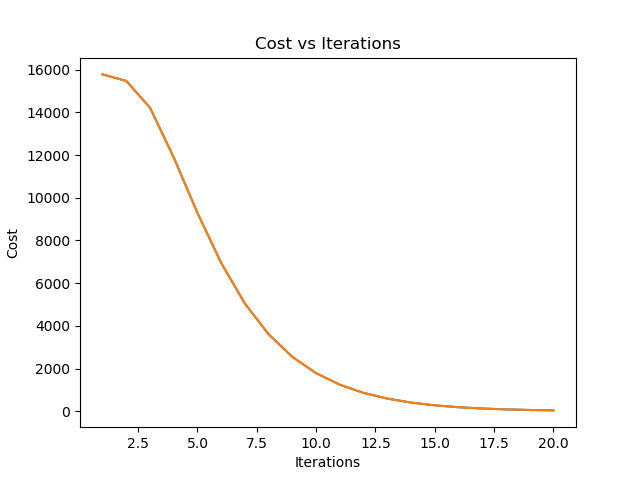
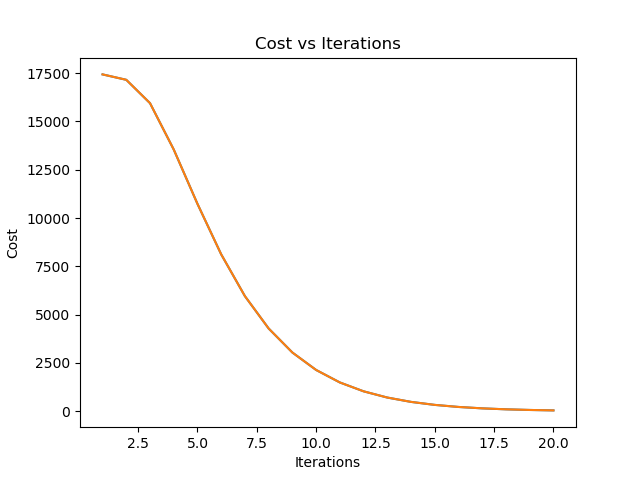
Done!

diff --git a/hw3/Question5.py b/hw3/Question5.py
@@ -6,7 +6,7 @@ from Question3 import *
 
 
 lam = .1
-iterations = 1000
+iterations = 200
 def load_data():
     mndata = MNIST()
     X_train, labels_train = map(np.array, mndata.load_training())
@@ -38,9 +38,12 @@ def calculate_cost(x,w,y,b):
 
 def predict(w,b,x):
     # print("-------",w.shape,x.shape)
-    return np.sign(np.exp(b+x@w))
+    # print(np.sign((b+x@w)))
+    # print((b+x@w).shape)
+    return np.sign((b+x@w))
 
 def compute_error(y_predict,y):
+    #print (y_predict,y)
     return np.sum(np.invert(np.equal(y_predict,y)))/y.shape[0]
 
 def gradient_descent(x,y,xt,yt,stochastic,batch = 1):
@@ -68,16 +71,19 @@ def gradient_descent(x,y,xt,yt,stochastic,batch = 1):
             x_rand = x[ids]
             y_rand = y[ids]
             mu = np.reciprocal(1+np.exp(-y_rand[0:batch]*(b+x_rand[0:batch]@w)))
-            delw = np.mean((1-mu).T*(-y_rand[0:batch].T*x_rand[0:batch].T),axis = 1).reshape(x.shape[1],1) + 2*(lam/iterations)*w
-            delb = np.mean((1-mu)*(-y_rand[0:batch]))
+            delw = np.mean((mu-1).T*(y_rand[0:batch].T*x_rand[0:batch].T),axis = 1).reshape(x.shape[1],1) + 2*(lam/iterations)*w
+            delb = np.mean((mu-1)*(y_rand[0:batch]))
             #print(delw.shape,delb.shape)
         if not stochastic:
-            mu = np.reciprocal(1+np.exp(-y*(b+x@w)))
-            delw = np.mean((1-mu).T*(-y.T*x.T),axis = 1).reshape(x.shape[1],1) + 2*lam*w
-            delb = np.mean((1-mu)*(-y))
-        w = w - .9*delw
+            mu = np.reciprocal(1+np.exp(np.multiply(-y,(b+x@w))))
+            # print(y.shape)
+            # exit()
+            delw = np.mean(np.multiply((mu-1).T,(np.multiply(y.T,x.T))),axis = 1).reshape(x.shape[1],1) + 2*lam*w
+            delb = np.mean(np.multiply((mu-1),(y)))
+            # print(mu)
+        w = w -.1*delw
         #print("##########:",w.shape)
-        b = b - .5*delb
+        b = b - .1*delb
         cost = np.asscalar(calculate_cost(x,w,y,b))
         costt = np.asscalar(calculate_cost(xt,w,yt,b))
         p = predict(w,b,x)
@@ -95,23 +101,60 @@ def gradient_descent(x,y,xt,yt,stochastic,batch = 1):
     print(len(errors))
     print(len(ws))
     print(type(np.arange(0,iterations+1).tolist()))
-    if stochastic:
+    if stochastic:            # print(mu)            # print(mu)
+        w = w - .01*delw
+        w = w - .01*delw
         plotter(np.arange(0,iterations+1).tolist(),[costs],title = "Cost_Iteration_Stochastic_"+str(batch), xlabel = "Iterations", ylabel = "Cost",flag = False)
         plotter(np.arange(0,iterations+1).tolist(),[costst],title = "Cost_Iteration_test_Stochastic_"+str(batch), xlabel = "Iterations", ylabel = "Cost",flag = False)
         plotter(np.arange(0,iterations+1).tolist(),[ws],title = "W_Iterations_Stochastic_"+str(batch), xlabel = "Iterations", ylabel = "W",flag = False)
         plotter(np.arange(0,iterations+1).tolist(),[bs],title = "b_Iterations_Stochastic_"+str(batch), xlabel = "Iterations", ylabel = "b",flag = False)
         plotter(np.arange(0,iterations+1).tolist(),[errors,errorst],title = "Missclassification Error_Stochastic_"+str(batch), xlabel = "Iterations", ylabel = "Error",flag = False)
     if not stochastic:
-        plotter(np.arange(0,iterations+1).tolist(),[costs],title = "Cost_Iteration", xlabel = "Iterations", ylabel = "Cost",flag = False)
-        plotter(np.arange(0,iterations+1).tolist(),[costst],title = "Cost_Iteration_test", xlabel = "Iterations", ylabel = "Cost",flag = False)
+        plotter(np.arange(0,iterations+1).tolist(),[costs, costst],title = "Cost_Iteration", xlabel = "Iterations", ylabel = "Cost",flag = False)
+        #plotter(np.arange(0,iterations+1).tolist(),[costst],title = "Cost_Iteration_test", xlabel = "Iterations", ylabel = "Cost",flag = False)
         plotter(np.arange(0,iterations+1).tolist(),[ws],title = "W_Iterations", xlabel = "Iterations", ylabel = "W",flag = False)
         plotter(np.arange(0,iterations+1).tolist(),[bs],title = "b_Iterations", xlabel = "Iterations", ylabel = "b",flag = False)
         plotter(np.arange(0,iterations+1).tolist(),[errors,errorst],title = "Missclassification Error", xlabel = "Iterations", ylabel = "Error",flag = False)
     return w,b
 
+def crossmult(z):
+    z = z.reshape(z.shape[0],1)
+    print((z@z.T))
+    return z@z.T
+
+def Newton_method(x,y):
+    w = np.zeros((x.shape[1],1))
+    b = 0
+    for j in range(2):
+        mu = np.reciprocal(1+np.exp(np.multiply(-y,(b+x@w))))
+        # print("--------",x.shape,y.shape,mu.shape,(np.multiply(y,x)).shape)
+        # print("@@@@@@@@@@@",(np.multiply(np.multiply(mu,(mu-1)),np.apply_along_axis(crossmult,1,np.multiply(y_train.reshape(y_train.shape[0],1),x_train)).reshape(x.shape[0],1))).shape)
+        delw = np.mean(np.multiply((mu-1).T,(np.multiply(y.T,x.T))),axis = 1).reshape(x.shape[1],1) + 2*lam*w
+        delb = np.mean(np.multiply((mu-1),(y)))
+        # print(((y[1]*x[1].reshape(x[1].shape[0],1))).shape)
+        deltemp = np.zeros((x.shape[1],x.shape[1]))
+        for i in tqdm(range(x.shape[0])):
+            deltemp += np.multiply(np.multiply(mu[i],(1-mu[i])),(y[i]*x[i].reshape(x[i].shape[0],1))@(y[i]*x[i].reshape(x[i].shape[0],1)).T)
+        print(deltemp.shape)
+        del2_w = (deltemp/x.shape[0]) + 2* lam* np.eye(x.shape[1])
+        #del2_w = np.mean(np.multiply(np.multiply(mu,(mu-1)),np.apply_along_axis(crossmult,1,np.multiply(y_train.reshape(y_train.shape[0],1),x_train)).reshape(x.shape[0],1))) + 2*lam
+        del2_b = np.mean(np.multiply(np.multiply(mu,(1-mu)),np.multiply(y,y)))
+        v_w = np.linalg.solve(del2_w,-delw)
+        v_b = (-delb)/del2_b
+        print(v_w.shape,v_b.shape)
+        w = w + .1 * v_w
+        b = b + .1 * v_b
+        p = predict(w,b,x)
+        error = compute_error(p,y)
+        print("Ye le penchow Error:", error)
 
 x_train, x_test, y_train, y_test = load_data()
 print(x_test.shape,y_test.shape)
 print(x_train.shape,y_train.shape)
-ecit()
-gradient_descent(x_train,y_train.reshape(y_train.shape[0],1),x_test,y_test.reshape(y_test.shape[0],1),True,1000)
+gradient_descent(x_train,y_train.reshape(y_train.shape[0],1),x_test,y_test.reshape(y_test.shape[0],1),False,1000)
+Newton_method(x_train,y_train.reshape(y_train.shape[0],1))
+exit()
+
+
+a = np.apply_along_axis(crossmult,1,np.multiply(y_train.reshape(y_train.shape[0],1),x_train))
+print(a.shape)

diff --git a/hw3/Question5_samin.py b/hw3/Question5_samin.py
@@ -1,0 +1,124 @@
+import numpy as np
+import matplotlib.pyplot as plt
+from mnist import MNIST
+from tqdm import tqdm
+
+def load_dataset():
+    mndata = MNIST()
+    mndata.gz = True
+    x_train, labels_train = map(np.array, mndata.load_training())
+    x_test, labels_test = map(np.array, mndata.load_testing())
+    x_train = x_train/255.0
+    x_test = x_test/255.0
+    return x_train, labels_train, x_test, labels_test
+
+
+X_train, label_train, X_test, label_test = load_dataset()
+
+label_train = label_train.reshape(label_train.shape[0])
+label_test = label_test.reshape(label_test.shape[0])
+
+print('X_train', X_train.shape, 'label_train', label_train.shape)
+
+
+index_train =np.where(np.logical_or(label_train==2, label_train==7))
+index_test = np.where(np.logical_or(label_test==2, label_test==7))
+
+
+label_train = label_train[index_train]
+label_test = label_test[index_test]
+X_train = X_train[index_train]
+X_test = X_test[index_test]
+
+# print(label_train[0:20])
+
+label_train = np.where(label_train==7, 1, -1)
+label_test = np.where(label_test==7, 1, -1)
+
+# print(label_train[0:20])
+
+print('label_train', label_train.shape, 'X_train', X_train.shape, 'label_test', label_test.shape, 'X_test', X_test.shape)
+
+mu = []
+def mu_func(z):
+
+    mu = 1.0 / (1.0 + np.exp(-z))
+    return mu
+
+
+lamda = 0.1
+W = np.zeros((X_train.shape[1], 1))
+b = 0
+
+
+def computation(X, Y, W, b):
+
+    # mu = np.reciprocal(1 + np.exp(-(Y*(b + X @ W))))
+    # print('mu', mu)
+    # print('etha_shape', etha.shape)
+    # logistic_loss = np.log(1/mu)
+    # print("_---------",Y.shape,X.shape,W.shape)
+    z = np.multiply(Y.reshape(X.shape[0], 1), (b + X @ W))
+    # print('z_value', z)
+    mu = mu_func(z)
+    # print('mu_value', mu.shape)
+    mu = np.reshape(mu, (mu.shape[0], 1))
+    # print('mu_shape', mu.shape)
+    J = np.mean(np.log(np.reciprocal(mu))) + lamda*(W.T @ W)
+    #print("^^^^^^^",(np.mean(-np.multiply((np.multiply(X, Y.reshape(Y.shape[0],1))), (1-mu)), axis=0)).shape,(2*lamda*W).shape)
+    grad_W = (np.mean(-np.multiply((np.multiply(X, Y.reshape(Y.shape[0],1))), (1-mu)), axis=0)).reshape(X.shape[1],1) + (2*lamda*W)
+    #print ("-----",grad_W.shape)
+
+    # print('grad_W_shape', grad_W.shape)
+    # grad_W = np.reshape(grad_W, )
+    # print('grad_W_shape', grad_W.shape)
+    grad_b = np.mean(-np.multiply(Y, (1-mu)))
+    # print('grad_b_shape', grad_b.shape)
+    # print('grad_b', grad_b.shape)
+    return J, grad_W, grad_b
+
+
+def optimization(X, Y, W, b, num_iteration, step_size):
+    J_list = []
+    W_list = []
+    for i in tqdm(range(num_iteration)):
+        J, grad_W, grad_b = computation(X, Y, W, b)
+        # print('cost', J)
+        W = W - step_size*grad_W
+        b = b - step_size*grad_b
+        J_list = np.append(J_list, J)
+        W_list = np.append(W_list, W)
+    return J_list, W_list
+
+
+def sign(X, W, b):
+    sgn = np.sign(b + X @ W)
+    return sgn
+
+
+def misclass_error(X, Y, W, b):
+    misclass = []
+    sgn = sign(X, W, b)
+    misclass = (np.nonzero(Y - sgn))/Y.shape[0]
+
+    return misclass
+
+
+cost_train, W = optimization(X_train, label_train, W, b, 200, 0.2)
+# cost_test, W = optimization(X_test, label_test, W, b, 10, 0.0001)
+
+
+# print('cost_train', cost_train)
+# print('cost_test', cost_test)
+# print('W', W)
+
+# plt.plot(np.linalg.norm(W))
+plt.plot(cost_train)
+plt.show()
+
+exit()
+
+# y_train_binary = (label_train == 5).astype(np.int)
+# y_test_binary = (label_test == 5).astype(np.int)
+#
+# print(label_train[0:20], y_train_binary[0:20])

diff --git a/hw3/Question3.py b/hw3/Question3.py
@@ -49,7 +49,7 @@ def model_definiton(x,y):
     print (lambda_max)
     return lambda_max
 
-def plotter(x , ys , title, xlabel, ylabel, flag):
+def plotter(x , ys , title, xlabel, ylabel, flag,flag2 = False):
     if not (os.path.exists(os.path.basename(__main__.__file__[:-3]))):
         os.mkdir(os.path.basename(__main__.__file__[:-3]))
     plt.clf()
@@ -58,7 +58,8 @@ def plotter(x , ys , title, xlabel, ylabel, flag):
     plt.plot(x,y)
     if flag:
         plt.gca().invert_xaxis()
-    # plt.xscale('log')
+    if flag2:
+        plt.xscale('log')
     plt.xlabel(xlabel)
     plt.ylabel(ylabel)
     plt.title(title)
@@ -126,7 +127,7 @@ def Question_3():
     print("Lam:",lam)
     changes, fdrs, tprs, lams, sums = lasso(x.T,y,lam)
     print (len(lams[1:]))
-    plotter(lams[1:],[changes[1:]],title = "Number of features vs Lambda ", xlabel = "Lambda", ylabel = "Number of Features",flag = True)
+    plotter(lams[1:],[changes[1:]],title = "Number of features vs Lambda ", xlabel = "Lambda", ylabel = "Number of Features",flag = True, flag2 = True)
     plotter(fdrs[1:],[tprs[1:]],title = "Fdrs vs tprs ", xlabel = "FDRS", ylabel = "TPRS ",flag = False)
     plotter(np.arange(1,len(sums)+1), [sums], title = "Cost vs Iterations", xlabel = "Iterations", ylabel = "Cost", flag = False)
 

diff --git a/hw3/Question4.py b/hw3/Question4.py
@@ -34,7 +34,7 @@ def lasso(x ,y,x_valid,y_valid,lam):
     changes = []
     # while delta > .0001:
     w = w = np.zeros((x.shape[0],1))
-    for j in tqdm(range(20)):
+    for j in tqdm(range(500)):
         wold = np.copy(w)
         for i in tqdm(range(1)): #TODO: Optimize the stopping criteria
             b = np.mean(y-w.T@x)
